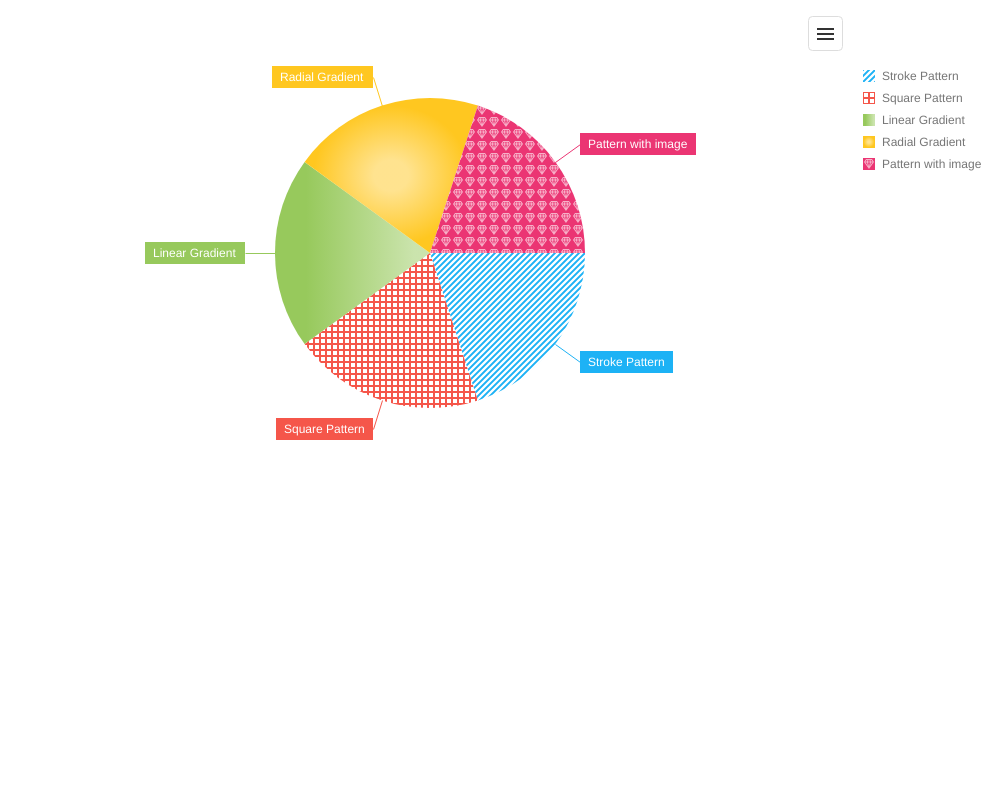
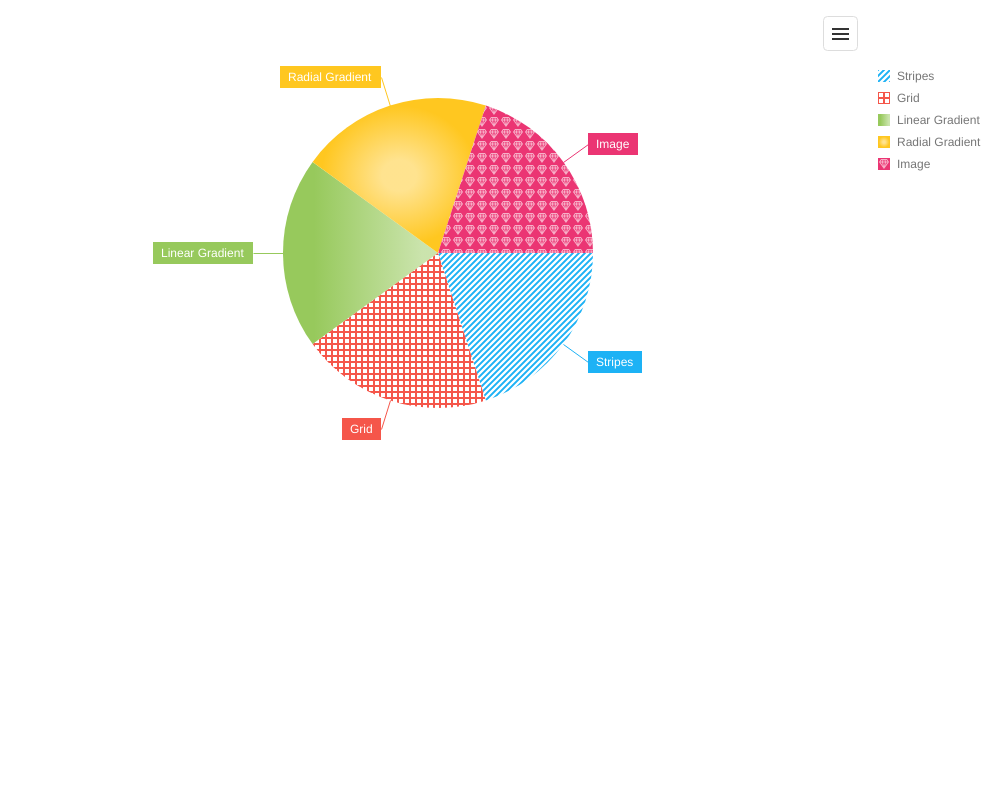
Chart: change texts in custom style demo (#2509)

diff --git a/JSDemos/Demos/Charts/PieWithCustomStyles/Vue/App.vue b/JSDemos/Demos/Charts/PieWithCustomStyles/Vue/App.vue
@@ -50,10 +50,10 @@ export default {
       const color = point.series.getPointsByArg(point.argument)[0].getColor();
       let fillId;
       switch (point.argument) {
-        case 'Stroke Pattern':
+        case 'Stripes':
           fillId = this.getStrokePattern(color);
           break;
-        case 'Square Pattern':
+        case 'Grid':
           fillId = this.getSquarePattern(color);
           break;
         case 'Linear Gradient':
@@ -62,7 +62,7 @@ export default {
         case 'Radial Gradient':
           fillId = this.getRadialGradient(color);
           break;
-        case 'Pattern with image':
+        case 'Image':
           fillId = this.getPatternImage(color);
           break;
         default:

diff --git a/JSDemos/Demos/Charts/PieWithCustomStyles/Angular/app/app.component.ts b/JSDemos/Demos/Charts/PieWithCustomStyles/Angular/app/app.component.ts
@@ -31,10 +31,10 @@ export class AppComponent {
     const color = point.series.getPointsByArg(point.argument)[0].getColor();
     let fillId;
     switch (point.argument) {
-      case 'Stroke Pattern':
+      case 'Stripes':
         fillId = this.getStrokePattern(color);
         break;
-      case 'Square Pattern':
+      case 'Grid':
         fillId = this.getSquarePattern(color);
         break;
       case 'Linear Gradient':
@@ -43,7 +43,7 @@ export class AppComponent {
       case 'Radial Gradient':
         fillId = this.getRadialGradient(color);
         break;
-      case 'Pattern with image':
+      case 'Image':
         fillId = this.getPatternImage(color);
         break;
       default:

diff --git a/JSDemos/Demos/Charts/PieWithCustomStyles/jQuery/index.js b/JSDemos/Demos/Charts/PieWithCustomStyles/jQuery/index.js
@@ -5,10 +5,10 @@ $(() => {
       const color = point.series.getPointsByArg(point.argument)[0].getColor();
       let fillId;
       switch (point.argument) {
-        case 'Stroke Pattern':
+        case 'Stripes':
           fillId = getStrokePattern(color);
           break;
-        case 'Square Pattern':
+        case 'Grid':
           fillId = getSquarePattern(color);
           break;
         case 'Linear Gradient':
@@ -17,7 +17,7 @@ $(() => {
         case 'Radial Gradient':
           fillId = getRadialGradient(color);
           break;
-        case 'Pattern with image':
+        case 'Image':
           fillId = getPatternImage(color);
           break;
         default:

diff --git a/JSDemos/Demos/Charts/PieWithCustomStyles/React/App.js b/JSDemos/Demos/Charts/PieWithCustomStyles/React/App.js
@@ -122,10 +122,10 @@ function customizePoint(point) {
   const color = point.series.getPointsByArg(point.argument)[0].getColor();
   let fillId;
   switch (point.argument) {
-    case 'Stroke Pattern':
+    case 'Stripes':
       fillId = getStrokePattern(color);
       break;
-    case 'Square Pattern':
+    case 'Grid':
       fillId = getSquarePattern(color);
       break;
     case 'Linear Gradient':
@@ -134,7 +134,7 @@ function customizePoint(point) {
     case 'Radial Gradient':
       fillId = getRadialGradient(color);
       break;
-    case 'Pattern with image':
+    case 'Image':
       fillId = getPatternImage(color);
       break;
     default:

diff --git a/JSDemos/Demos/Charts/PieWithCustomStyles/Angular/app/app.service.ts b/JSDemos/Demos/Charts/PieWithCustomStyles/Angular/app/app.service.ts
@@ -7,10 +7,10 @@ export class Data {
 }
 
 const data: Data[] = [{
-  type: 'Stroke Pattern',
+  type: 'Stripes',
   value: 1,
 }, {
-  type: 'Square Pattern',
+  type: 'Grid',
   value: 1,
 }, {
   type: 'Linear Gradient',
@@ -19,7 +19,7 @@ const data: Data[] = [{
   type: 'Radial Gradient',
   value: 1,
 }, {
-  type: 'Pattern with image',
+  type: 'Image',
   value: 1,
 }];
 

diff --git a/JSDemos/Demos/Charts/PieWithCustomStyles/React/data.js b/JSDemos/Demos/Charts/PieWithCustomStyles/React/data.js
@@ -1,8 +1,8 @@
 export const data = [{
-  type: 'Stroke Pattern',
+  type: 'Stripes',
   value: 1,
 }, {
-  type: 'Square Pattern',
+  type: 'Grid',
   value: 1,
 }, {
   type: 'Linear Gradient',
@@ -11,6 +11,6 @@ export const data = [{
   type: 'Radial Gradient',
   value: 1,
 }, {
-  type: 'Pattern with image',
+  type: 'Image',
   value: 1,
 }];

diff --git a/JSDemos/Demos/Charts/PieWithCustomStyles/Vue/data.js b/JSDemos/Demos/Charts/PieWithCustomStyles/Vue/data.js
@@ -1,8 +1,8 @@
 export const data = [{
-  type: 'Stroke Pattern',
+  type: 'Stripes',
   value: 1,
 }, {
-  type: 'Square Pattern',
+  type: 'Grid',
   value: 1,
 }, {
   type: 'Linear Gradient',
@@ -11,6 +11,6 @@ export const data = [{
   type: 'Radial Gradient',
   value: 1,
 }, {
-  type: 'Pattern with image',
+  type: 'Image',
   value: 1,
 }];

diff --git a/JSDemos/Demos/Charts/PieWithCustomStyles/jQuery/data.js b/JSDemos/Demos/Charts/PieWithCustomStyles/jQuery/data.js
@@ -1,8 +1,8 @@
 const data = [{
-  type: 'Stroke Pattern',
+  type: 'Stripes',
   value: 1,
 }, {
-  type: 'Square Pattern',
+  type: 'Grid',
   value: 1,
 }, {
   type: 'Linear Gradient',
@@ -11,6 +11,6 @@ const data = [{
   type: 'Radial Gradient',
   value: 1,
 }, {
-  type: 'Pattern with image',
+  type: 'Image',
   value: 1,
 }];
